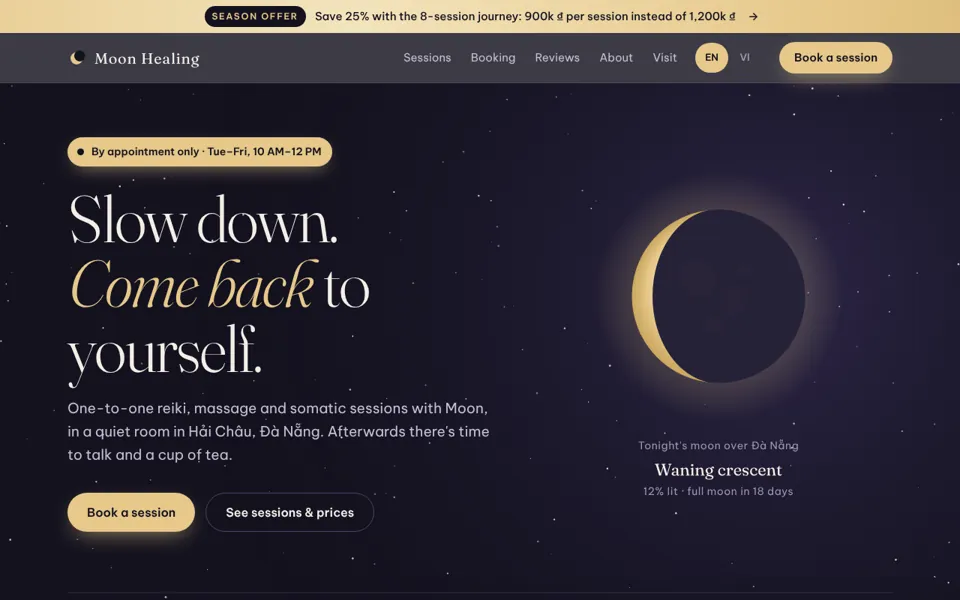
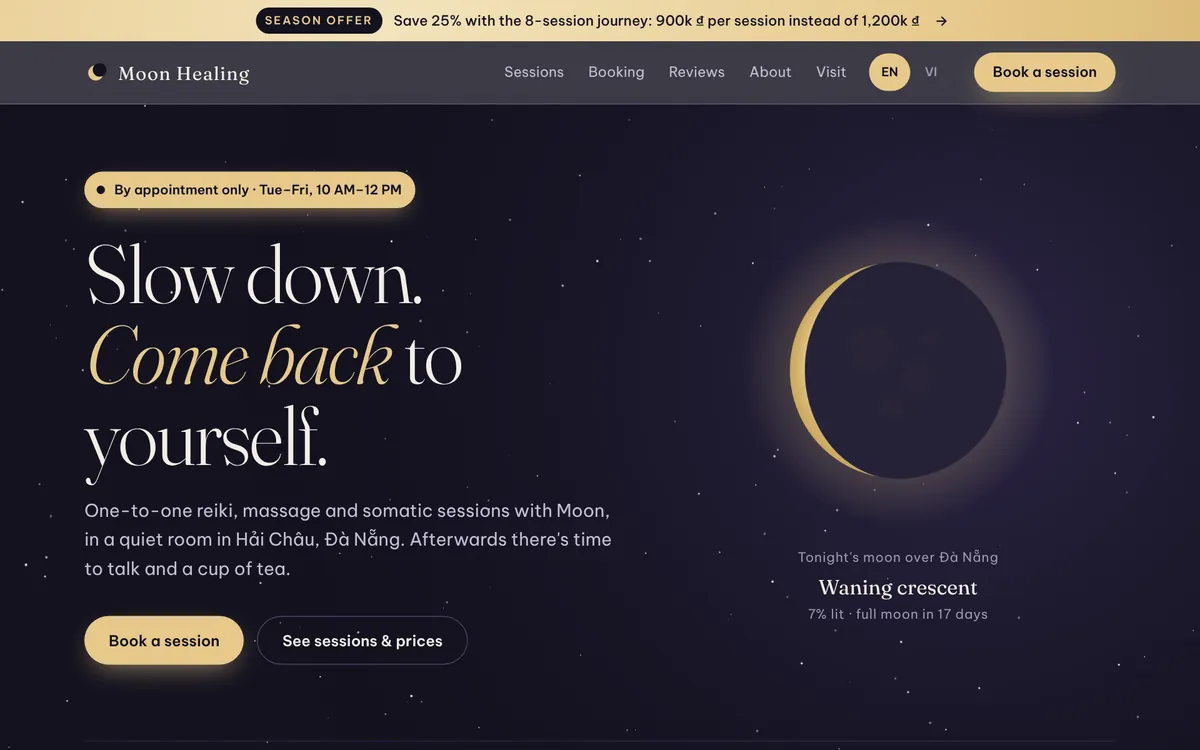
Use a phone-sized Moon Healing screenshot on small screens; remove Arcadia Zoo
Claude-Session: https://claude.ai/code/session_01FwSZqEJncfjtYiqXHLAh5e

diff --git a/index.html b/index.html
@@ -249,7 +249,10 @@
 
         <article class="card client">
           <a class="client__shot" href="https://moon-healing-zeta.vercel.app" target="_blank" rel="noopener" aria-label="Open the Moon Healing website">
-            <img src="assets/img/moon-healing.webp" width="960" height="600" alt="Moon Healing homepage with a live moon-phase drawing beside the headline Slow down. Come back to yourself." loading="lazy">
+            <picture>
+              <source media="(max-width: 599px)" srcset="assets/img/moon-healing-mobile.webp" width="780" height="840">
+              <img src="assets/img/moon-healing.webp" width="1200" height="750" alt="Moon Healing homepage with a live moon-phase drawing beside the headline Slow down. Come back to yourself." loading="lazy">
+            </picture>
           </a>
           <div class="client__text">
             <p class="label">Client website</p>
@@ -263,20 +266,6 @@
           </div>
         </article>
 
-        <article class="card client client--flip">
-          <a class="client__shot" href="https://arcadia-zoo-v1.onrender.com" target="_blank" rel="noopener" aria-label="Open the Arcadia Zoo website">
-            <img src="assets/img/arcadia-zoo.webp" width="960" height="600" alt="Arcadia Zoo website: green navigation bar above photos of deer, a giraffe and kangaroos" loading="lazy">
-          </a>
-          <div class="client__text">
-            <p class="label">Full-stack web app</p>
-            <h3>Arcadia Zoo</h3>
-            <p>French-language zoo website built for my web development degree. Visitors browse habitats, animals and services and leave reviews. Staff sign in by role: admins manage accounts and services, employees moderate reviews, and vets file reports on each habitat.</p>
-            <ul class="tags"><li>Node.js</li><li>Express</li><li>PostgreSQL</li><li>MongoDB</li><li>bcrypt auth</li><li>Docker</li></ul>
-            <div class="row-btns">
-              <a class="btn btn--sm" href="https://arcadia-zoo-v1.onrender.com" target="_blank" rel="noopener">Visit live site</a>
-            </div>
-          </div>
-        </article>
       </div>
     </section>
 

diff --git a/assets/css/style.css b/assets/css/style.css
@@ -300,4 +300,5 @@ footer a { color: var(--muted); display: inline-flex; align-items: center; min-h
 .resp .txt { display: block; }
 [hidden] { display: none !important; }
 .judge__foot .btn { white-space: nowrap; flex-shrink: 0; }
-@media (min-width: 900px) { .client--flip { grid-template-columns: 1fr 1.15fr; } .client--flip .client__shot { order: 2; border-inline-end: 0; border-inline-start: 1px solid var(--line); } }
+.client__shot picture { display: block; height: 100%; }
+@media (max-width: 599px) { .client__shot img { aspect-ratio: 780 / 840; object-position: center top; } }

diff --git a/README.md b/README.md
@@ -39,7 +39,6 @@ python3 -m http.server 8000
 - [Bulldozer Price Regression](https://github.com/Aksachlisimo/bulldozer_price_regression_project): Random Forest, validation RMSLE 0.247, R² 0.88
 - [Dog Vision](https://github.com/Aksachlisimo/dog_vision_project): MobileNetV2 transfer learning, 120 breeds
 - [Moon Healing](https://github.com/Aksachlisimo/moon_healing): bilingual client website ([live](https://moon-healing-zeta.vercel.app))
-- Arcadia Zoo: full-stack zoo website with role-based staff areas, Node.js/Express, PostgreSQL, MongoDB ([live](https://arcadia-zoo-v1.onrender.com))
 
 ## Contact
 
